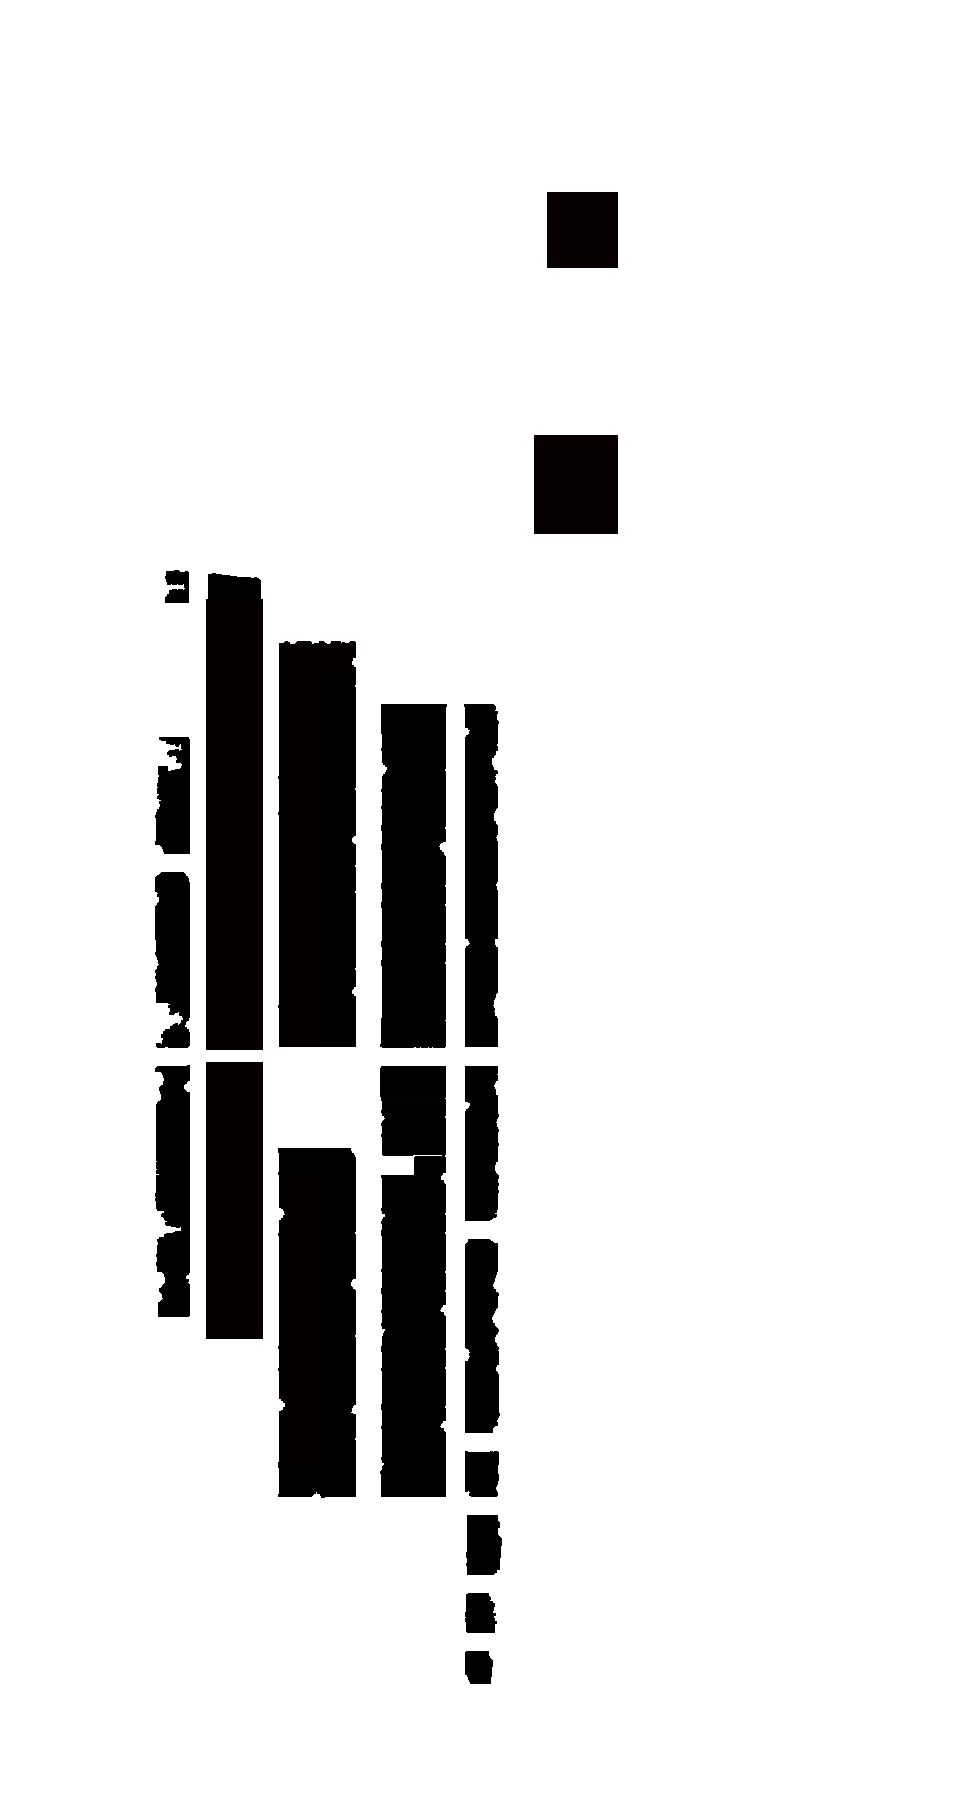
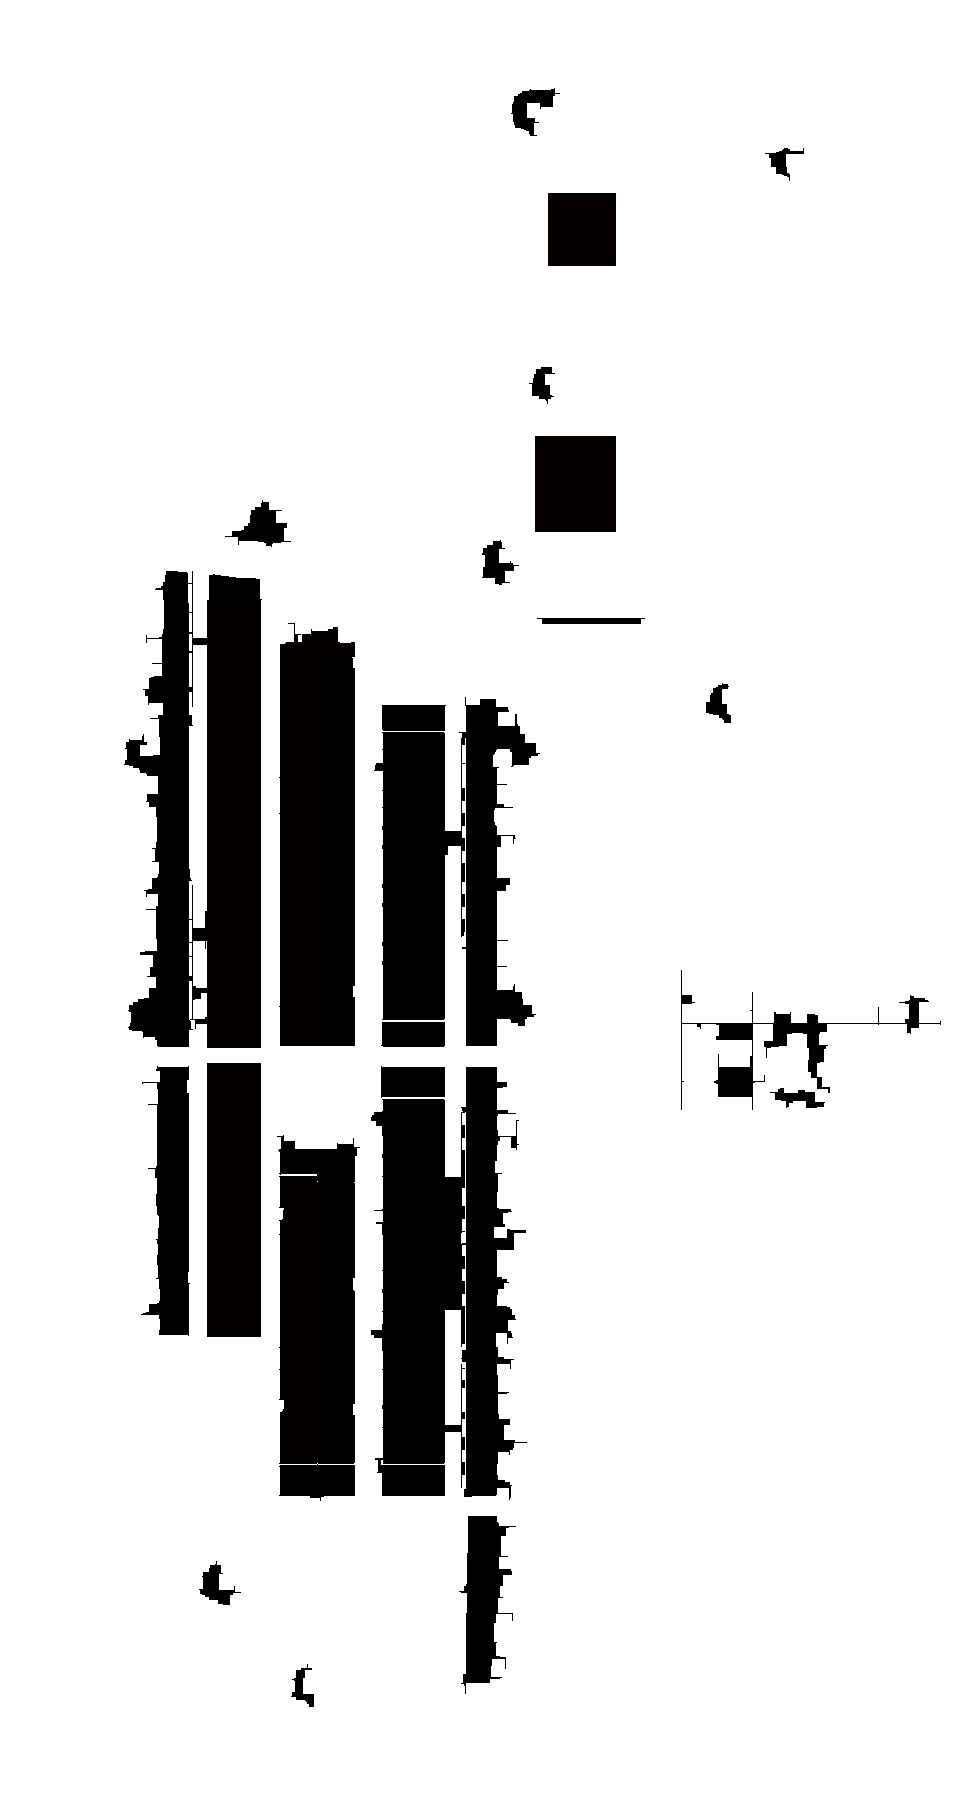
Increase heading sizes 30%, fix Master Plan hover gaps, add zoom animation, fix nav menu
- Bump all section h3 headings ~30% for stronger visual hierarchy (Club
  Aurum eyebrow left untouched, mobile heading sizes left untouched).
- Fix Master Plan hover: tree-canopy graphics were fragmenting some plots'
  colour regions into pieces too small to survive noise filtering, leaving
  them un-highlightable; rebuilt the mask pipeline to close fragments
  before filtering, then resolve any resulting cross-category bleed by
  colour-distance and by treating the hand-measured plots as ground truth.
  Regenerated all highlight overlays and hitmaps from the corrected masks.
- Add a scale-up hover/tap animation to the Master Plan plan graphic,
  zooming toward each category's own plots (via a per-category transform
  origin) instead of a flat dim/cutout swap.
- Fix header/footer nav order and add the missing Clubhouse link:
  Location, Experience, Master Plan, Gallery, Clubhouse, Amenities,
  Landscape, Specifications, Contact Us.
- Add scroll-padding-top so anchor navigation lands correctly under the
  fixed header.

diff --git a/client/src/styles/global.css b/client/src/styles/global.css
@@ -11,6 +11,9 @@
 
 html {
   scroll-behavior: smooth;
+  /* fixed header would otherwise cover the top of whatever section a nav
+     link jumps to */
+  scroll-padding-top: 90px;
   font-variation-settings: 'wdth' 100;
   /* hide the browser's own page scrollbar at the right edge — scrolling still
      works exactly as before, only the bar is not painted */
@@ -792,6 +795,7 @@ h3 {
     border: 1px solid #909090;
     position: relative;
 }
+.intro-content h3 { font-size: 52px; }
 
 .intro-content:before,
 .intro-content:after {
@@ -869,7 +873,7 @@ h3 {
   margin: 0 auto 30px;
 }
 .loc2-head h3 {
-  font-size: 38px;
+  font-size: 49px;
   font-weight: 600;
   line-height: 1.08;
   color: #2b2a26;
@@ -1494,7 +1498,7 @@ h3 {
 
 .dfl-head { text-align: center; margin-bottom: 2.2em; }
 .dfl-head h3 {
-  font-size: 38px;
+  font-size: 49px;
   font-weight: 600; color: #2b2a26; line-height: 1.1; margin-bottom: 8px;
 }
 .dfl-head p { font-size: 18px; color: #6b675d; margin: 0; }
@@ -2050,7 +2054,7 @@ h3 {
 }
 .jg-head { text-align: center; margin-bottom: 1.8em; }
 .jg-head h3 {
-  font-size: 38px; font-weight: 600; color: #2b2a26; line-height: 1.15;
+  font-size: 49px; font-weight: 600; color: #2b2a26; line-height: 1.15;
 }
 
 /* ============================================================
@@ -2246,7 +2250,7 @@ h3 {
   margin: 0 auto 2em;
 }
 .mplan-head h3 {
-  font-size: 38px;
+  font-size: 49px;
   font-weight: 600; color: #2b2a26; line-height: 1.12; margin-bottom: 10px;
 }
 .mplan-head p {
@@ -2282,6 +2286,15 @@ h3 {
   height: 100%;
   cursor: crosshair;
 }
+.mplan-real-stage {
+  position: relative;
+  width: 100%;
+  height: 100%;
+  transform: scale(1);
+  transition: transform 0.55s cubic-bezier(0.22, 1, 0.36, 1);
+  will-change: transform;
+}
+.mplan-real-stage.zoomed { transform: scale(1.32); }
 .mplan-real-base,
 .mplan-real-hl {
   position: absolute;
@@ -2407,7 +2420,7 @@ h3 {
   margin-bottom: 12px;
 }
 .club2-head h3 {
-  font-size: 38px; font-weight: 600; line-height: 1.12;
+  font-size: 49px; font-weight: 600; line-height: 1.12;
   margin-bottom: 20px;
 }
 .club2-head--desktop .club2-eyebrow { color: #fff; }
@@ -2484,7 +2497,7 @@ h3 {
   max-width: 800px;
   margin: 0 auto 1.4em;
 }
-.amen-head h3 { font-size: clamp(30px, 3.4vw, 46px); font-weight: 600; }
+.amen-head h3 { font-size: clamp(39px, 4.4vw, 60px); font-weight: 600; }
 .amen-head p {
   font-family: var(--font);
   font-size: 18px;
@@ -3088,7 +3101,7 @@ h3 {
   margin-bottom: 1.1em;
 }
 .verdant-open-head h3 {
-  font-size: 38px;
+  font-size: 49px;
   font-weight: 600;
   line-height: 1.12;
   color: #2b2a26;
@@ -3147,7 +3160,7 @@ h3 {
 
 .verdant-head { text-align: center; margin-bottom: 2.2em; }
 .verdant-head h3 {
-  font-size: 38px;
+  font-size: 49px;
   font-weight: 600; color: #2b2a26; line-height: 1.12; margin: 0;
 }
 
@@ -3219,7 +3232,7 @@ h3 {
 .spec2 { padding: 3em 0 3.4em; }
 .spec2 .container { display: block; }
 .spec2-head { max-width: 780px; margin: 0 auto 1.6em; text-align: center; }
-.spec2-head h3 { margin-bottom: 0.3em; font-size: clamp(30px, 3.4vw, 46px); font-weight: 600; }
+.spec2-head h3 { margin-bottom: 0.3em; font-size: clamp(39px, 4.4vw, 60px); font-weight: 600; }
 .spec2 .spec2-head p {
   font-family: var(--font);
   font-size: 18px;
@@ -3525,7 +3538,7 @@ h3 {
   flex: 1 1 300px;
 }
 .contact-text h3 {
-  font-size: clamp(34px, 3.6vw, 50px);
+  font-size: clamp(44px, 4.7vw, 65px);
   line-height: 1.08;
   margin-bottom: 14px;
 }
@@ -4469,7 +4482,7 @@ p { font-family: var(--font); }
   margin: 0 auto 1.3em;
 }
 .video-header h3 {
-  font-size: 38px;
+  font-size: 49px;
   font-weight: 600;
   line-height: 1.08;
   color: #2b2a26;

diff --git a/client/src/data/masterPlanCategories.js b/client/src/data/masterPlanCategories.js
@@ -4,13 +4,17 @@
 // category to its images/masterplan-hl-{key}.webp highlight overlay and to
 // the pixel index baked into images/masterplan-hitmap.png (odd=1, s1=2,
 // s3=3, s4=4, s5=5, comm=6 — see the hitmap's R channel).
+// `origin` is the centroid of each category's plots (as a % of the plan
+// image), sampled separately for the rotated desktop art and the portrait
+// mobile art — used as the CSS transform-origin for the hover zoom so the
+// plan scales up around that category's own plots rather than the cursor.
 export const PLAN_CATEGORIES = [
-  { key: 's5', color: '#E8DCC8', label: '30 × 40 ft · 1,200 sq.ft', value: '74' },
-  { key: 's1', color: '#ABACA6', label: '30 × 50 ft · 1,500 sq.ft', value: '68' },
-  { key: 's4', color: '#B69B7E', label: '30 × 60 ft · 1,800 sq.ft', value: '37' },
-  { key: 's3', color: '#A29572', label: '40 × 60 ft · 2,400 sq.ft', value: '26' },
-  { key: 'odd', color: '#696F55', label: 'Odd Plots (as per site edge)', value: '100' },
-  { key: 'comm', color: '#D6C4A8', label: 'Retail & Commercial', value: '02' },
+  { key: 's5', color: '#E8DCC8', label: '30 × 40 ft · 1,200 sq.ft', value: '74', origin: { desktop: { x: 34.78, y: 75.47 }, mobile: { x: 24.32, y: 34.78 } } },
+  { key: 's1', color: '#ABACA6', label: '30 × 50 ft · 1,500 sq.ft', value: '68', origin: { desktop: { x: 67.17, y: 55.85 }, mobile: { x: 44.05, y: 67.17 } } },
+  { key: 's4', color: '#B69B7E', label: '30 × 60 ft · 1,800 sq.ft', value: '37', origin: { desktop: { x: 36.67, y: 67.75 }, mobile: { x: 32.15, y: 36.67 } } },
+  { key: 's3', color: '#A29572', label: '40 × 60 ft · 2,400 sq.ft', value: '26', origin: { desktop: { x: 40.28, y: 64.93 }, mobile: { x: 34.97, y: 40.28 } } },
+  { key: 'odd', color: '#696F55', label: 'Odd Plots (as per site edge)', value: '100', origin: { desktop: { x: 56.39, y: 82.78 }, mobile: { x: 17.12, y: 56.39 } } },
+  { key: 'comm', color: '#D6C4A8', label: 'Retail & Commercial', value: '02', origin: { desktop: { x: 26.44, y: 39.87 }, mobile: { x: 60.02, y: 26.44 } } },
 ]
 
 export const PLAN_CATEGORY_BY_INDEX = {

diff --git a/client/src/components/LayoutPlan.jsx b/client/src/components/LayoutPlan.jsx
@@ -98,6 +98,9 @@ export default function LayoutPlan() {
 
   const handleLeave = () => setHover(null)
 
+  const hoverCat = hover && CAT_BY_KEY[hover.key]
+  const origin = hoverCat ? hoverCat.origin[isMobile ? 'mobile' : 'desktop'] : null
+
   return (
     <div
       className="mplan-realplan"
@@ -106,20 +109,25 @@ export default function LayoutPlan() {
       onMouseLeave={handleLeave}
       onClick={handlePoint}
     >
-      <img
-        src={`images/masterplan-layout${suffix}.webp`}
-        alt="Trivik Courtyard sanctioned layout plan"
-        className="mplan-real-base"
-      />
-      {PLAN_CATEGORIES.map((c) => (
+      <div
+        className={`mplan-real-stage${hover ? ' zoomed' : ''}`}
+        style={origin ? { transformOrigin: `${origin.x}% ${origin.y}%` } : undefined}
+      >
         <img
-          key={c.key}
-          src={`images/masterplan-hl-${c.key}${suffix}.webp`}
-          alt=""
-          aria-hidden="true"
-          className={`mplan-real-hl${hover?.key === c.key ? ' on' : ''}`}
+          src={`images/masterplan-layout${suffix}.webp`}
+          alt="Trivik Courtyard sanctioned layout plan"
+          className="mplan-real-base"
         />
-      ))}
+        {PLAN_CATEGORIES.map((c) => (
+          <img
+            key={c.key}
+            src={`images/masterplan-hl-${c.key}${suffix}.webp`}
+            alt=""
+            aria-hidden="true"
+            className={`mplan-real-hl${hover?.key === c.key ? ' on' : ''}`}
+          />
+        ))}
+      </div>
 
       {hover && (
         <div

diff --git a/client/src/components/Footer.jsx b/client/src/components/Footer.jsx
@@ -1,12 +1,14 @@
 const nav = [
   { href: '#home', label: 'Home' },
   { href: '#location', label: 'Location' },
+  { href: '#experience', label: 'Experience' },
+  { href: '#master_plan', label: 'Master Plan' },
   { href: '#gallery', label: 'Gallery' },
-  { href: '#landscape', label: 'Landscape' },
   { href: '#clubhouse', label: 'Clubhouse' },
   { href: '#amenities', label: 'Amenities' },
+  { href: '#landscape', label: 'Landscape' },
   { href: '#specifications', label: 'Specifications' },
-  { href: '#walkthrough', label: 'Walkthrough' },
+  { href: '#contact', label: 'Contact Us' },
 ]
 
 const socials = [

diff --git a/client/src/components/Header.jsx b/client/src/components/Header.jsx
@@ -2,12 +2,13 @@ import { useState } from 'react'
 
 const navLinks = [
   { href: '#location', label: 'Location' },
-  { href: '#master_plan', label: 'Master Plan' },
   { href: '#experience', label: 'Experience' },
+  { href: '#master_plan', label: 'Master Plan' },
+  { href: '#gallery', label: 'Gallery' },
+  { href: '#clubhouse', label: 'Clubhouse' },
   { href: '#amenities', label: 'Amenities' },
   { href: '#landscape', label: 'Landscape' },
   { href: '#specifications', label: 'Specifications' },
-  { href: '#gallery', label: 'Gallery' },
   { href: '#contact', label: 'Contact Us' },
 ]
 
